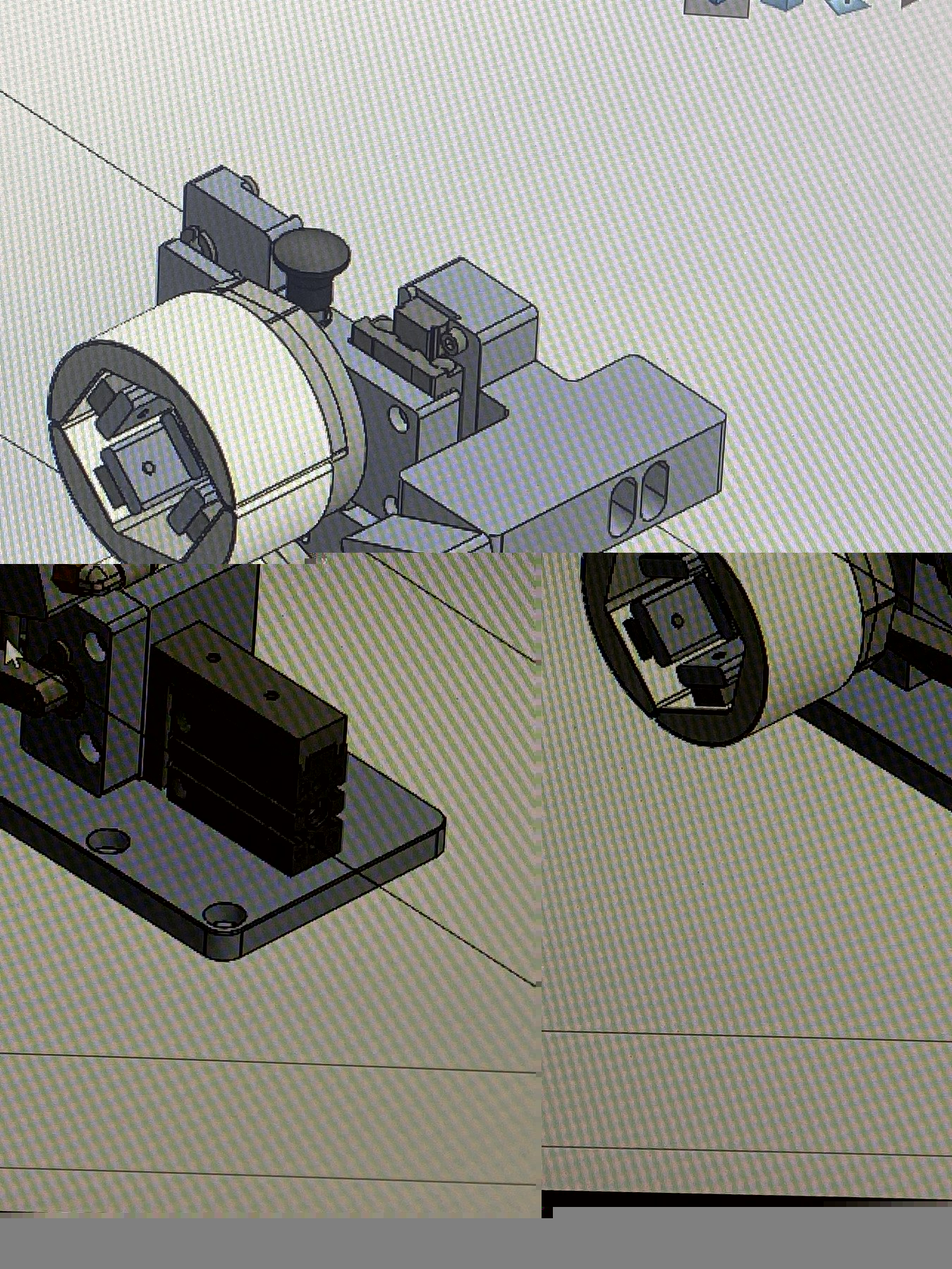
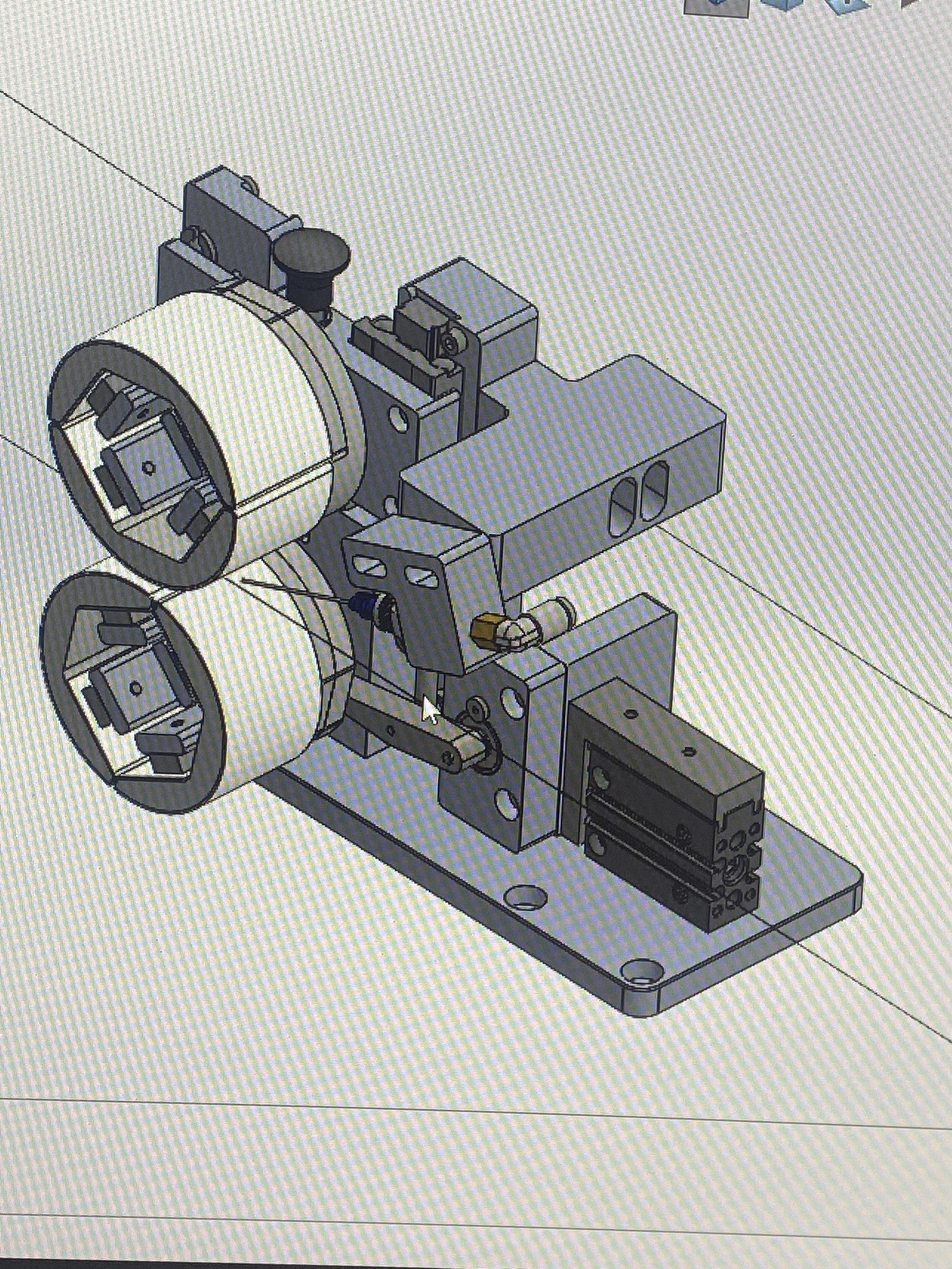
Repair truncated Somex image and record remaining upload stages

diff --git a/UPLOAD_PROGRESS.md b/UPLOAD_PROGRESS.md
@@ -4,9 +4,10 @@ Source: Darragh_Hughes_Website_GitHub(1).zip (37 files).
 Target: darragh785/BIO-DH, main branch.
 
 - Stage 1 COMPLETE: index.html, style.css, script.js, hero.js and .nojekyll.
-- Stage 2 COMPLETE: all 28 non-video assets (images, favicon and CV PDF), uploaded unchanged from the ZIP.
-- Stage 3 PENDING: upload assets/petwatch-schedule.mp4, assets/skyspot-detection.mp4 and assets/skyspot-flight.mp4; replace original repository README with the ZIP README; verify all 37 source files; configure GitHub Pages.
+- Stage 2 COMPLETE: 28 non-video assets. Previous session verified 27; this session replaced truncated assets/somex-automation.jpg using 12,000-byte reads. Original size 833309 bytes; verified Git blob SHA 92148f71069bd8881458c2ee655d579fffef0ec7.
+- Stage 3 NEXT: upload only assets/petwatch-schedule.mp4 (96669 bytes; Git blob SHA 6e37f030d7ff2daecf971752ddc8706fde790692). Stop after verification to keep chats short.
+- Stage 4: upload only assets/skyspot-detection.mp4 (8582905 bytes; Git blob SHA 8d454199db7b9f897c7f5a70688e15d5505937de).
+- Stage 5: upload only assets/skyspot-flight.mp4 (3931337 bytes; Git blob SHA be4d0f194ad4a05dde0072e6f45f95790ed8237a).
+- Stage 6: replace README with ZIP README, verify all 37 source files, configure and verify GitHub Pages.
 
-No redesign requested; preserve ZIP contents. GitHub Pages has not yet been configured by this upload process.
-
-To resume in a new chat: read this file and continue stage 3 using the attached source ZIP.
+Read binary bytes in small chunks; assemble content programmatically without printing full binary/base64 to chat. Check returned Git blob SHA against source before committing. No redesign requested; preserve ZIP contents. GitHub Pages has not yet been configured by this upload process.
